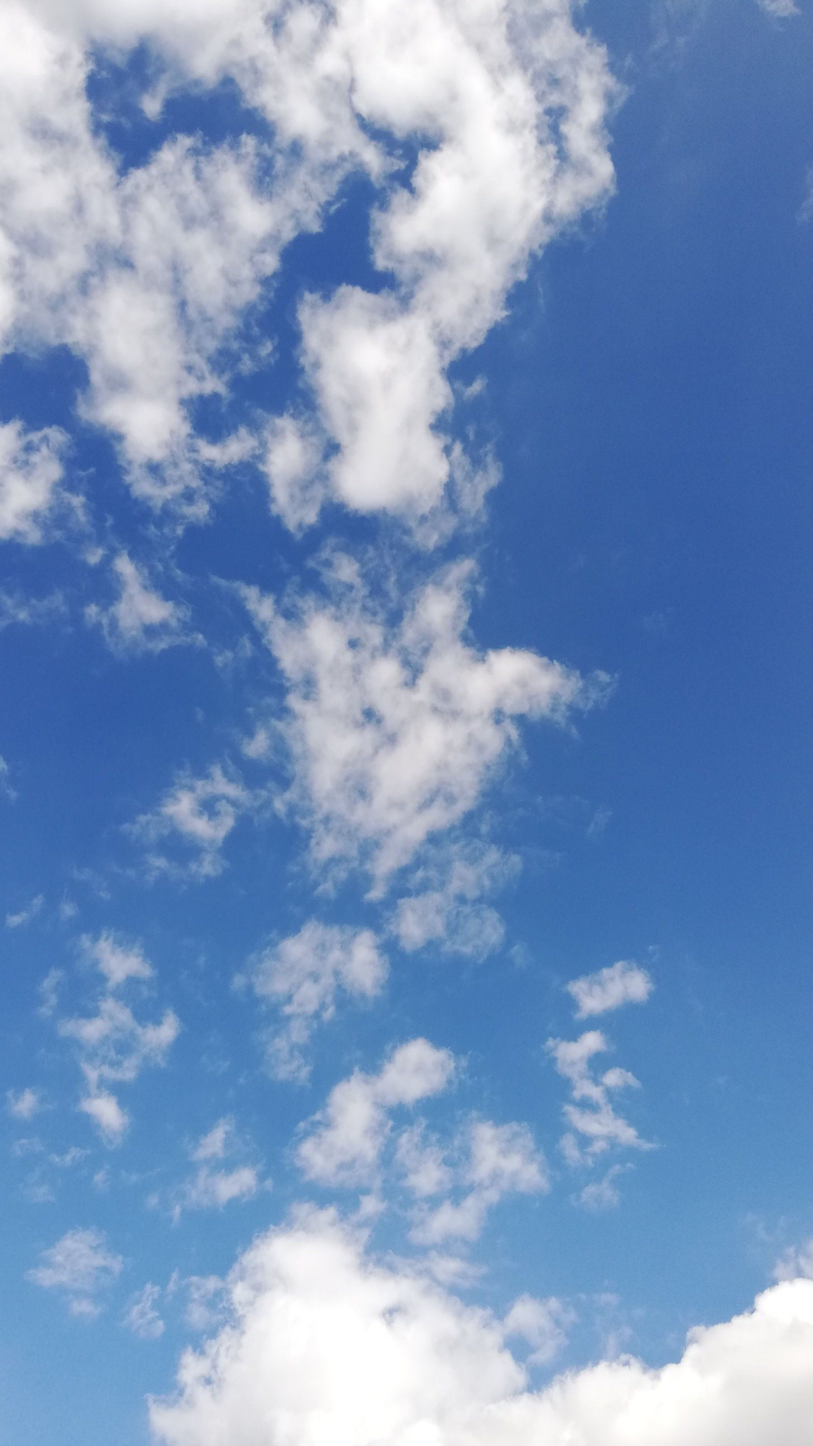
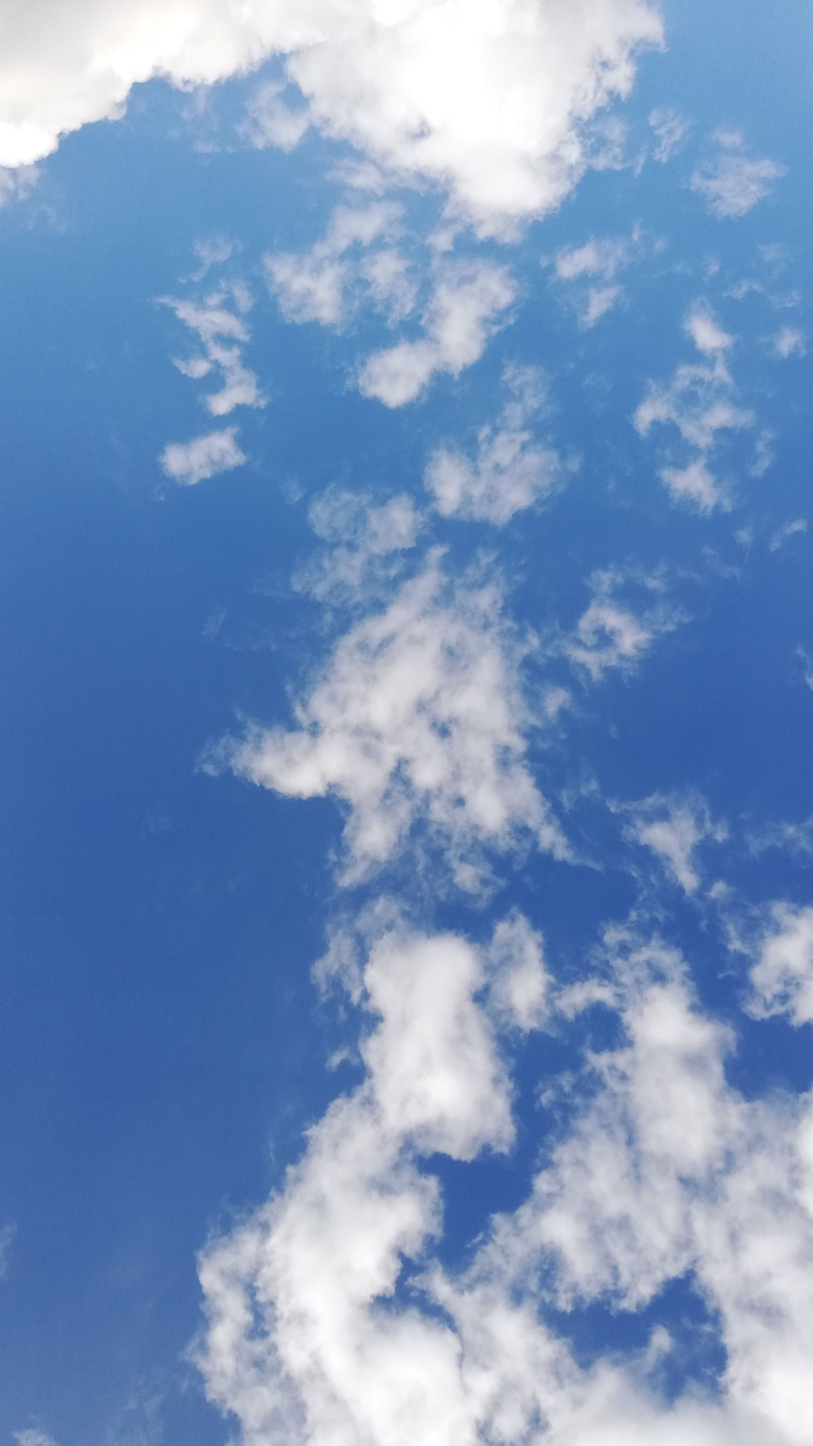
Kitchen board: clear sky back as it was; partly cloudy turned instead
Claude-Session: https://claude.ai/code/session_0197ewpwxAhUAUG7xaNo6b2x

diff --git a/house/house/server.py b/house/house/server.py
@@ -20,7 +20,7 @@ from board import Board
 log = logging.getLogger("house")
 WWW = Path(__file__).parent / "www"
 HA = "http://supervisor/core/api"
-VERSION = "0.11.3"
+VERSION = "0.11.4"
 
 
 def load_options(path: str = "/data/options.json") -> dict:
